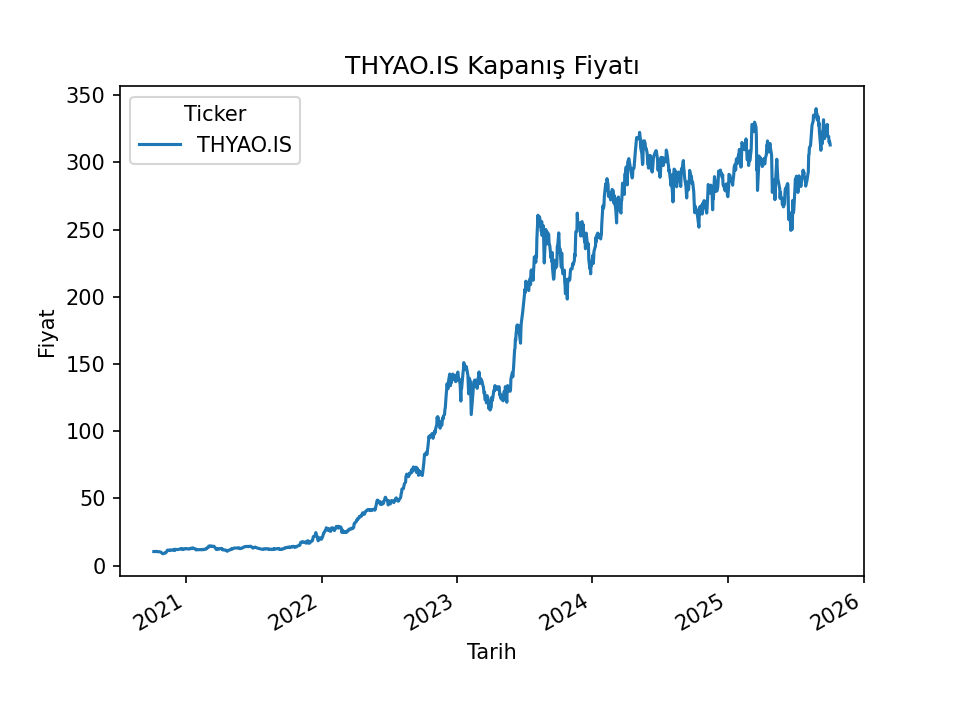
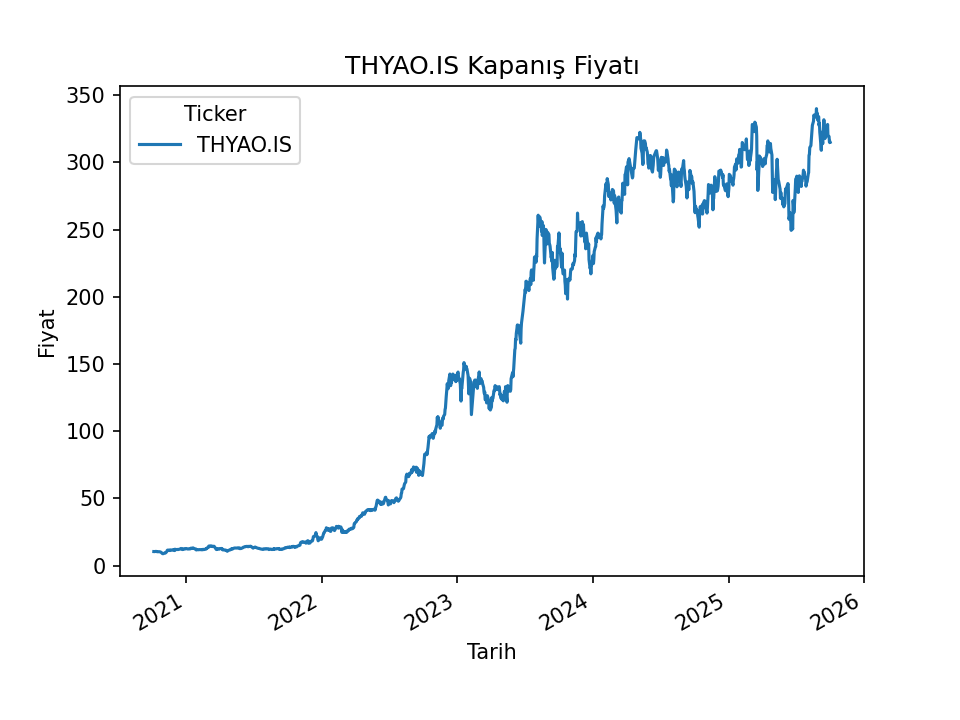
Özet rapor + EDA grafikleri

diff --git a/data_fetch_and_eda.py b/data_fetch_and_eda.py
@@ -4,42 +4,112 @@ import pandas as pd
 import yfinance as yf
 import matplotlib.pyplot as plt
 
-# --- Hisse Senedi Sembolü (örnek: THYAO.IS, ASELS.IS, BIMAS.IS) ---
-TICKER = "THYAO.IS"  # İstediğini buradan değiştirebilirsin
-
-# --- Kaç yıl geriye gidelim ---
+# --- Ayarlar ---
+TICKER = "THYAO.IS"
 YIL_SAYISI = 5
 
-# --- Veri Klasörleri ---
-os.makedirs("data", exist_ok=True)
-os.makedirs("figures", exist_ok=True)
+# --- Klasörler ---
+DATA_DIR = "data"
+FIG_DIR = "figures"
+os.makedirs(DATA_DIR, exist_ok=True)
+os.makedirs(FIG_DIR, exist_ok=True)
 
-# --- Tarih Aralığı ---
+# --- Tarih aralığı ---
 end = datetime.today()
 start = end - timedelta(days=365 * YIL_SAYISI)
-
 print(f"[INFO] {TICKER} verisi indiriliyor: {start.date()} → {end.date()}")
 
-# --- Veri Çekme ---
-df = yf.download(TICKER, start=start, end=end)
-
+# --- Veri çek ---
+df = yf.download(TICKER, start=start.date(), end=end.date(), progress=False)
 if df.empty:
-    print("[UYARI] Veri indirilemedi. Sembol doğru mu? Örn: ASELS.IS")
-else:
-    # CSV kaydet
-    csv_path = f"data/{TICKER.replace('.', '_')}.csv"
-    df.to_csv(csv_path)
-    print(f"[OK] CSV kaydedildi: {csv_path}")
+    print("[UYARI] Veri boş döndü. Sembol doğru mu?")
+    raise SystemExit
+df = df.dropna()
 
-    # Grafik kaydet
-    plt.figure(figsize=(10,5))
-    df["Close"].plot(title=f"{TICKER} Kapanış Fiyatı")
-    plt.xlabel("Tarih")
-    plt.ylabel("Fiyat")
-    fig_path = f"figures/{TICKER.replace('.', '_')}_close.png"
-    plt.savefig(fig_path, dpi=150)
-    print(f"[OK] Grafik kaydedildi: {fig_path}")
+# --- CSV kaydet ---
+csv_path = os.path.join(DATA_DIR, f"{TICKER.replace('.', '_')}.csv")
+df.to_csv(csv_path)
+print(f"[OK] CSV kaydedildi: {csv_path}")
 
-    # Konsolda son 5 satırı göster
-    print("\n[SON VERİLER]")
-    print(df.tail())
+# --- Kapanış fiyatı ---
+plt.figure(figsize=(10,5))
+df["Close"].plot(title=f"{TICKER} Kapanış Fiyatı")
+plt.xlabel("Tarih")
+plt.ylabel("Fiyat")
+fig_path = os.path.join(FIG_DIR, f"{TICKER.replace('.', '_')}_close.png")
+plt.savefig(fig_path, dpi=150)
+plt.close()
+print(f"[OK] Grafik kaydedildi: {fig_path}")
+
+# --- Günlük getiri ---
+df["Daily Return"] = df["Close"].pct_change()
+plt.figure(figsize=(10,5))
+df["Daily Return"].plot(title=f"{TICKER} Günlük Getiriler")
+plt.xlabel("Tarih")
+plt.ylabel("Getiri")
+dr_fig = os.path.join(FIG_DIR, f"{TICKER.replace('.', '_')}_daily_returns.png")
+plt.savefig(dr_fig, dpi=150)
+plt.close()
+print(f"[OK] Günlük getiri grafiği kaydedildi: {dr_fig}")
+
+# --- Hareketli ortalamalar ---
+df["SMA20"] = df["Close"].rolling(20).mean()
+df["SMA50"] = df["Close"].rolling(50).mean()
+plt.figure(figsize=(10,5))
+df["Close"].plot(label="Close", alpha=0.7)
+df["SMA20"].plot(label="SMA20")
+df["SMA50"].plot(label="SMA50")
+plt.title(f"{TICKER} Fiyat ve Hareketli Ortalamalar")
+plt.xlabel("Tarih"); plt.ylabel("Fiyat")
+plt.legend()
+sma_fig = os.path.join(FIG_DIR, f"{TICKER.replace('.', '_')}_sma.png")
+plt.savefig(sma_fig, dpi=150)
+plt.close()
+print(f"[OK] SMA grafiği kaydedildi: {sma_fig}")
+
+# --- Volatilite ---
+df["RollingStd20"] = df["Daily Return"].rolling(20).std() * (252 ** 0.5)
+plt.figure(figsize=(10,5))
+df["RollingStd20"].plot(title=f"{TICKER} 20 Günlük Yıllıklaştırılmış Volatilite")
+plt.xlabel("Tarih")
+plt.ylabel("Volatilite")
+vol_fig = os.path.join(FIG_DIR, f"{TICKER.replace('.', '_')}_volatility.png")
+plt.savefig(vol_fig, dpi=150)
+plt.close()
+print(f"[OK] Volatilite grafiği kaydedildi: {vol_fig}")
+
+print("\n[SON VERİLER]")
+print(df.tail())
+
+# --- Mini rapor (istatistikler) ---
+summary = {
+    "son_tarih": str(df.index.max().date()),
+    "son_fiyat": float(df["Close"].iloc[-1]),
+    "ortalama_getiri(%)": float(df["Daily Return"].mean() * 100),
+    "std_getiri(%)": float(df["Daily Return"].std() * 100),
+    "yillik_volatilite(%)": float(df["RollingStd20"].iloc[-1] * 100),
+}
+
+# SMA kesişimleri (son 2 yıl)
+cross = (df["SMA20"] > df["SMA50"]).astype(int).diff()
+golden = df.index[cross == 1]   # yukarı kesişim
+death  = df.index[cross == -1]  # aşağı kesişim
+
+lines = [
+    "# THYAO.IS – Otomatik Özet\n",
+    f"- Son tarih: {summary['son_tarih']}",
+    f"- Son kapanış: {summary['son_fiyat']:.2f}",
+    f"- Ortalama günlük getiri: {summary['ortalama_getiri(%)']:.3f}%",
+    f"- Günlük getiri std: {summary['std_getiri(%)']:.3f}%",
+    f"- 20g yıllıklaştırılmış volatilite: {summary['yillik_volatilite(%)']:.2f}%",
+    f"- Golden cross sayısı: {len(golden)}",
+    f"- Death cross sayısı: {len(death)}",
+    "\n*Golden cross tarihleri (ilk 5):*",
+    *[f"- {d.date()}" for d in list(golden[-5:])],
+    "\n*Death cross tarihleri (ilk 5):*",
+    *[f"- {d.date()}" for d in list(death[-5:])],
+]
+
+with open("SUMMARY.md", "w", encoding="utf-8") as f:
+    f.write("\n".join(lines))
+print("[OK] SUMMARY.md oluşturuldu.")

diff --git a/SUMMARY.md b/SUMMARY.md
@@ -1,0 +1,23 @@
+# THYAO.IS – Otomatik Özet
+
+- Son tarih: 2025-10-02
+- Son kapanış: 315.00
+- Ortalama günlük getiri: 0.309%
+- Günlük getiri std: 2.679%
+- 20g yıllıklaştırılmış volatilite: 32.26%
+- Golden cross sayısı: 10
+- Death cross sayısı: 9
+
+*Golden cross tarihleri (ilk 5):*
+- 2023-05-08
+- 2023-11-21
+- 2024-01-30
+- 2024-11-21
+- 2025-07-18
+
+*Death cross tarihleri (ilk 5):*
+- 2023-02-22
+- 2023-09-20
+- 2024-01-04
+- 2024-06-14
+- 2025-04-08
